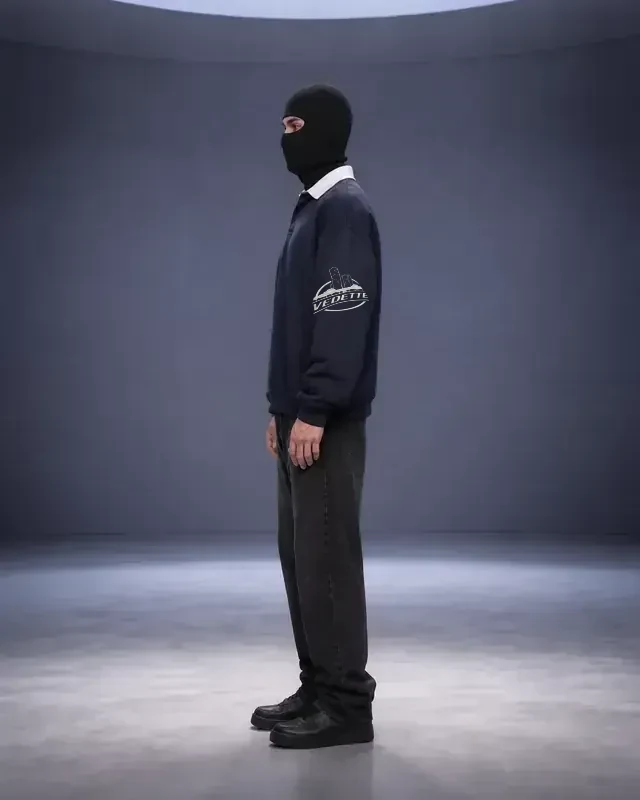
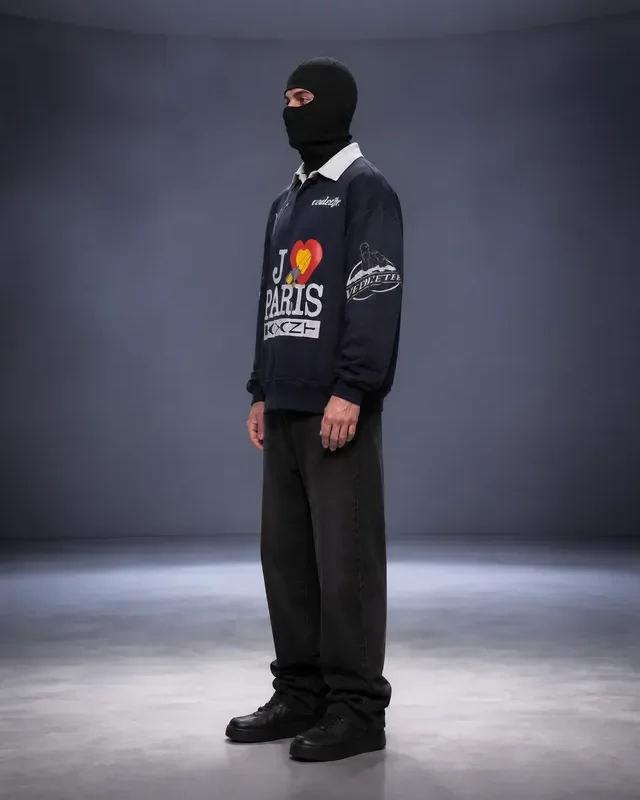
Cabine polo: side views turned ~65 deg so the chest print stays visible (3 morphs)
Claude-Session: https://claude.ai/code/session_01JHKczBwFKYFofkfxCnLE6j

diff --git a/src/components/collection/CabineViewer.tsx b/src/components/collection/CabineViewer.tsx
@@ -4,7 +4,7 @@ import { useCallback, useEffect, useRef, useState } from "react";
 
 export const CABINE_FRAMES = 8;
 /** Bump when the fitting-room photos change: busts copies cached by phones. */
-const CABINE_VERSION = "20261011b";
+const CABINE_VERSION = "20261011c";
 /** Degrees turned per pixel dragged: one viewport width is half a turn. */
 const DEG_PER_PX = 0.45;
 const FRICTION = 0.92;
